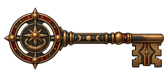
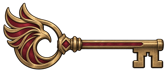
Regenerate Dial and prop art in new style

diff --git a/Documentation/CelestialDial/STYLE-PASS-2026-09-24.md b/Documentation/CelestialDial/STYLE-PASS-2026-09-24.md
@@ -1,0 +1,25 @@
+# Ascendant style pass — 2026-09-24
+
+## Authority and scope
+
+This pass follows the canonical `ascendant-style-reference-2026-09-23.png` and the Atrium amendment dated 2026-09-24. The work is art-only: no code, layout, slot sizes, labels, wording, importer settings, or light-overlay crunch settings changed.
+
+## PR 1 — rooms and light overlays
+
+Regenerated `wing.png` and `chamber.png` in the Atrium's cinematic 2D animated-film rendering style. Both backgrounds remain dormant and moonlit at most: deep charcoal, muted crimson, bone stone, and cool blue accents with quiet gameplay surfaces.
+
+Regenerated `atrium-light.png`, `wing-light.png`, and `chamber-light.png` as separate RGBA overlays. The Atrium overlay is centred on the corrected Atrium window and warms the dome, frieze, arches, and phoenix floor inlay. The Wing and Chamber overlays use motivated upper shafts and restrained amber bounce while leaving broad foreground areas transparent.
+
+### Placement check
+
+The fixed rects were checked against the 360 × 800 composition before replacing the room art. The Wing return doorway remains at `x=-130, top=325, 70 × 100`; the floor band remains centred at `top=436, 340 × 30`; shelf/table/chair landing areas remain clear. The Chamber return remains at `x=-140, top=384, 40 × 60`; the Books remain centred at `top=300`; and the Chamber floor band remains at `top=408, 340 × 30`. The generated rooms keep the left opening, central gameplay wall, and lower floor plane aligned to those targets.
+
+## PR 2 — Dial face, props, and character style check
+
+Regenerated the hand-painted phoenix `dial-face` with transparent pixels outside its circle, plus `door-open`, `door-sealed`, `shelves`, `desk`, `furniture-covered`, `shelf`, `shelf-book`, `chair`, `candle`, `lamp`, and `keeper-key`. The existing `table.png` is retained because it already has the required exact 3 × 4 / twelve-cell arrangement; generated candidates were rejected when they produced nine cells. The existing Caspar identity remains compatible with the reference. `keeper-idle` and `keeper-walk` were regenerated in the same style while preserving the dark-skinned youth, black shirt, blue jeans, and white sneaker identity.
+
+## Validation record
+
+- PNG dimensions and alpha were checked after normalization against the registered slot sizes in `ART-SLOTS.md`.
+- The shared Unity WebGL build and browser captures are recorded on the PR once run from Unity 6000.3.24f1.
+- Generated source images were kept in the local Codex generated-images folder; only selected normalized project PNGs are committed.
